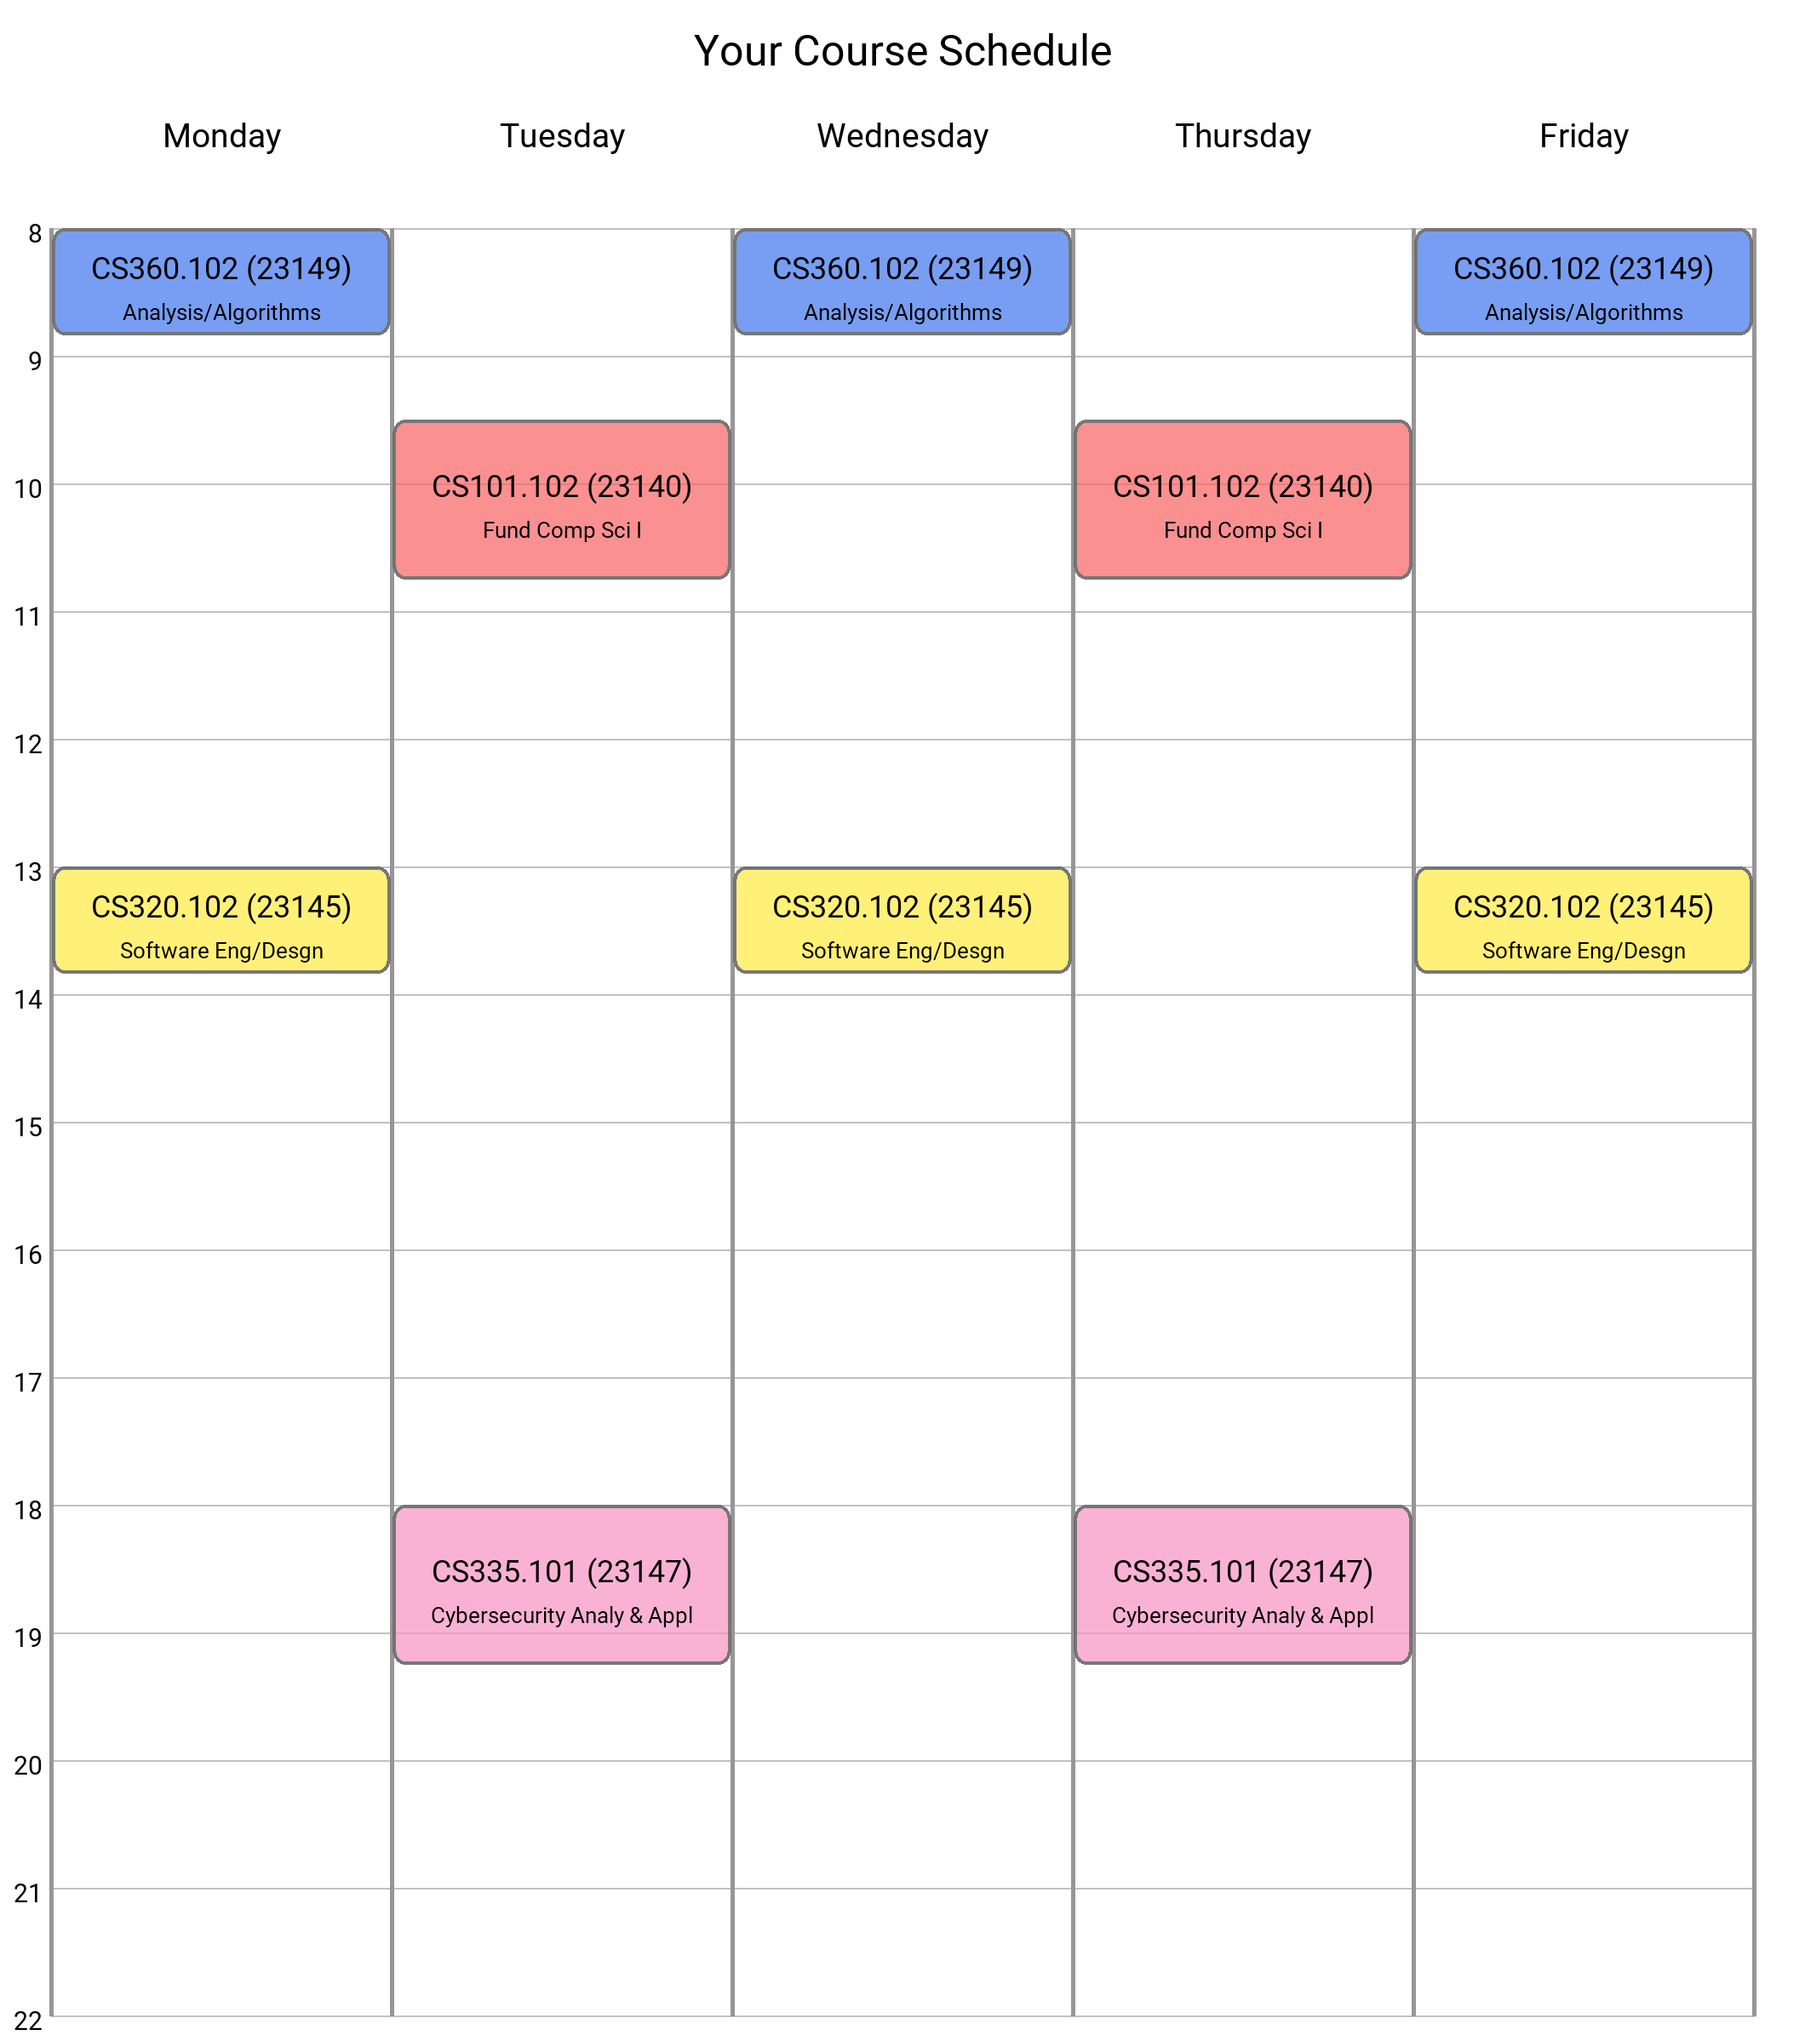
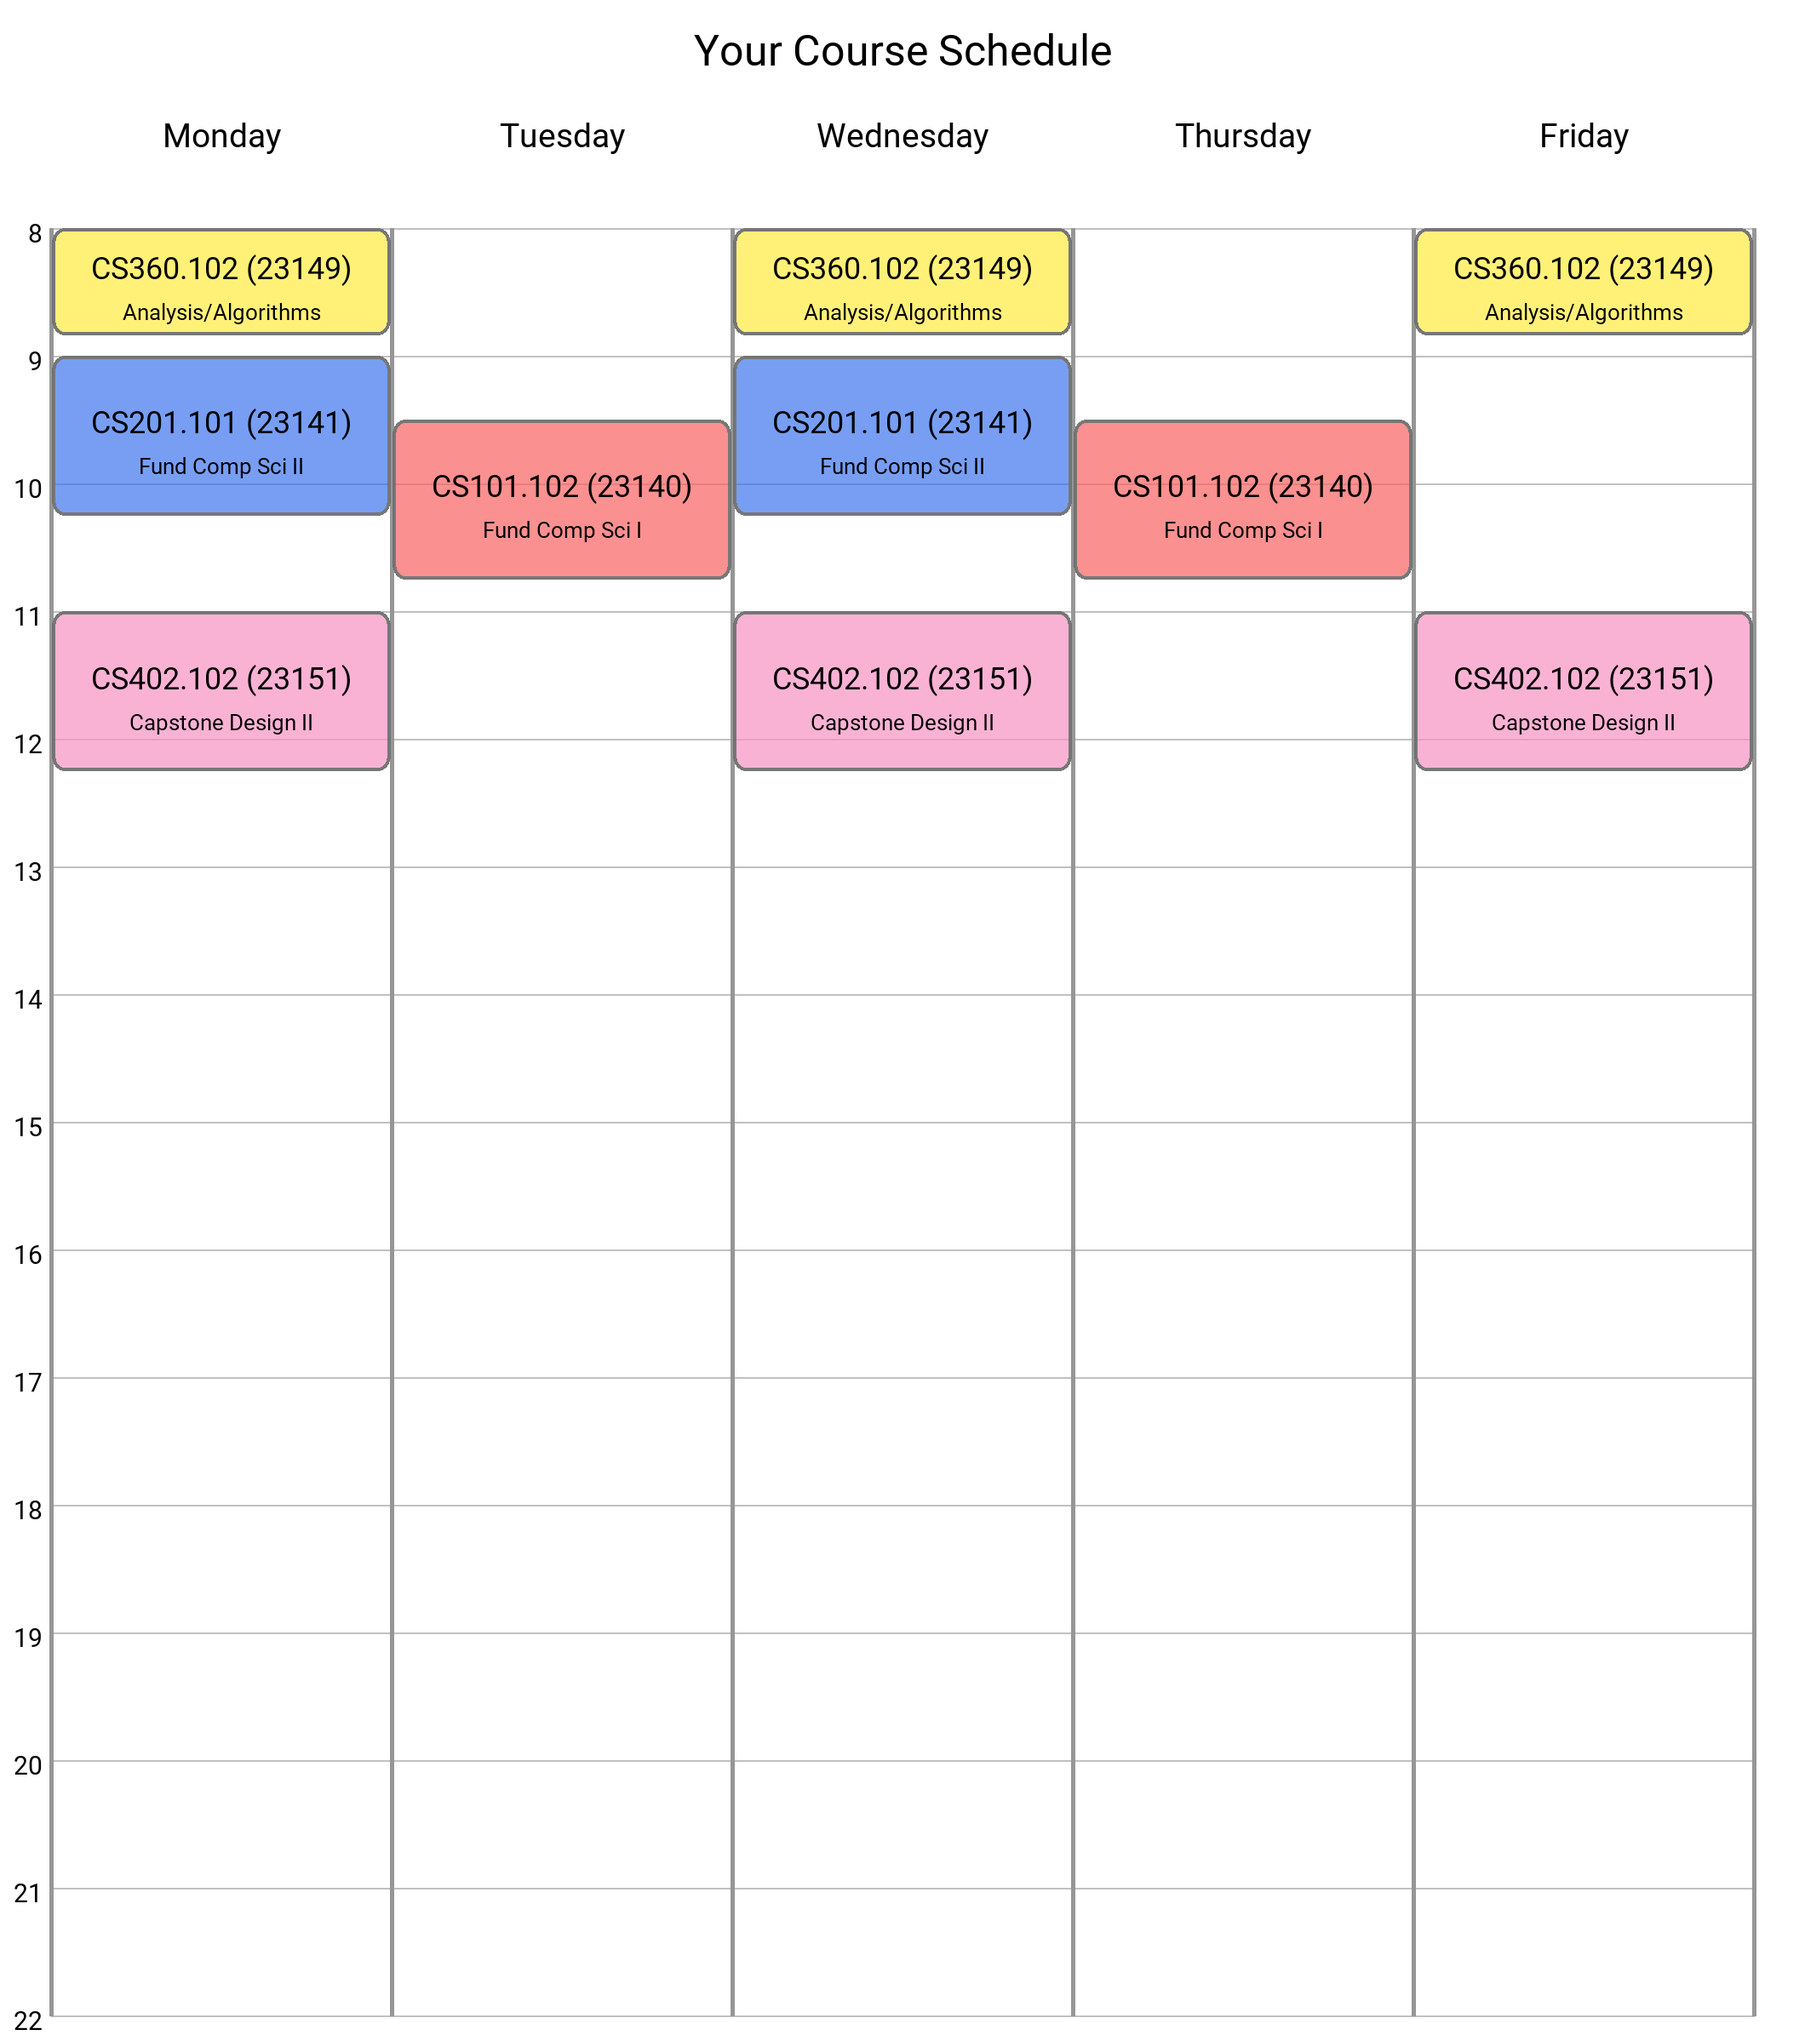
Final commit?

diff --git a/registration.py b/registration.py
@@ -52,9 +52,8 @@ def keyWordSearch(collection):
     return list()
     #
     
-
-
 def update_dataframe(picked_course, collection):
+    print('CRN: ', str(picked_course))
     filter = {'Course Code': picked_course}
     result = collection.find_one(filter)
     
@@ -96,26 +95,24 @@ def update_dataframe(picked_course, collection):
     filter = {'TimeSlot': {'$in': time_slots_to_remove}}
     collection.delete_many(filter)
 
-def display_list(list):
+def display_list(list, collection):
     AGlist = pd.DataFrame(list)
     builder = GridOptionsBuilder.from_dataframe(AGlist)
     builder.configure_selection('multiple', use_checkbox=True)
     built = builder.build()
     # st.dataframe(AGlist)
     return_value = AgGrid(AGlist,built)
+    
     #https://discuss.streamlit.io/t/how-to-keep-streamlit-ag-grid-selected-rows-after-page-update/38611/2
     if return_value['selected_rows']:
         temp = return_value['selected_rows']
-        print(return_value['selected_rows'])
-        # print(temp[0]['Course Code'])
-        update_dataframe(temp[-1]['Course Code'], list)
-    # courses = [["23140","CS101.102","Fund Comp Sci I","T R","09:30AM-10:45AM","KEC 119","Kambhampaty K",'12','1','01/25/24-05/09/24'], 
-            # ["23149","CS360.102","Analysis/Algorithms","M W F",'08:00AM-08:50AM',"KEC 119","Zeller D","12",'0','01/25/24-05/09/24'], 
-            # ["23145","CS320.102","Software Eng/Desgn","M W F",'01:00PM-01:50PM',"KEC 119","Hake D","10","2","01/25/24-05/09/24"], 
-            # ['23147','CS335.101','Cybersecurity Analy & Appl','T R','06:00PM-07:15PM','KEC 123','Zhelezov G','20','7','01/25/24-05/09/24']]
+        # print(return_value['selected_rows'])
+        print(temp[0])
+        update_dataframe(temp[0]['Course Code'], collection)
+   
     submit = st.button("Submit")
     if submit:
-        draw_schedule.draw(courses)
+        draw_schedule.draw(return_value['selected_rows'])
         st.image("Your_Course_Schedule.png")
         with open("Your_Course_Schedule.png", "rb") as file:
             dwnld = st.download_button(
@@ -137,7 +134,7 @@ def parseResults(collection):
         display_list(list(collection.find({},{ "_id": 0, "Course Code": 1, "Class":1, "Title": 1, "Days" : 1, "Time": 1, "Instructor": 1})))
         #st.dataframe(list(collection.find({},{ "_id": 0, "Course Code": 1, "Class":1, "Title": 1, "Days" : 1, "Time": 1, "Instructor": 1})))
     else:
-        display_list(kws)
+        display_list(kws, collection)
     
     
         
@@ -156,7 +153,7 @@ def main():
     mydb = client['CW']
     collection = mydb['Courses_Keywords']
     collection.delete_many({})
-
+    st.header("CourseWise")
     readCSV("csdata.csv", collection)
     #keyWordSearch(collection)
     keyList = ["oral"]

diff --git a/draw_schedule.py b/draw_schedule.py
@@ -19,10 +19,10 @@ def draw(courses):
     calendar = Calendar.build(config)
 
     for i in range (len(courses)):
-        days = courses[i][3].split()
-        times = courses[i][4].split('-')
-        course_title = courses[i][1] + " (" + courses[i][0] + ")"
-        course_name = courses[i][2]
+        days = courses[i]['Days'].split()
+        times = courses[i]['Time'].split('-')
+        course_title = courses[i]['Class'] + " (" + str(courses[i]['Course Code']) + ")"
+        course_name = courses[i]['Title']
         for j in range(2):
             if ("PM" in times[j]) and ("12:" not in times[j]):
                 time_list = times[j].split(':')
@@ -46,9 +46,9 @@ def draw(courses):
 
 
     #Test_schedule selections:
-courses = [["23140","CS101.102","Fund Comp Sci I","T R","09:30AM-10:45AM","KEC 119","Kambhampaty K",'12','1','01/25/24-05/09/24'], 
-            ["23149","CS360.102","Analysis/Algorithms","M W F",'08:00AM-08:50AM',"KEC 119","Zeller D","12",'0','01/25/24-05/09/24'], 
-            ["23145","CS320.102","Software Eng/Desgn","M W F",'01:00PM-01:50PM',"KEC 119","Hake D","10","2","01/25/24-05/09/24"], 
-            ['23147','CS335.101','Cybersecurity Analy & Appl','T R','06:00PM-07:15PM','KEC 123','Zhelezov G','20','7','01/25/24-05/09/24']]
+# courses = [["23140","CS101.102","Fund Comp Sci I","T R","09:30AM-10:45AM","KEC 119","Kambhampaty K",'12','1','01/25/24-05/09/24'], 
+#             ["23149","CS360.102","Analysis/Algorithms","M W F",'08:00AM-08:50AM',"KEC 119","Zeller D","12",'0','01/25/24-05/09/24'], 
+#             ["23145","CS320.102","Software Eng/Desgn","M W F",'01:00PM-01:50PM',"KEC 119","Hake D","10","2","01/25/24-05/09/24"], 
+#             ['23147','CS335.101','Cybersecurity Analy & Appl','T R','06:00PM-07:15PM','KEC 123','Zhelezov G','20','7','01/25/24-05/09/24']]
     
-draw(courses)
+# draw(courses)
